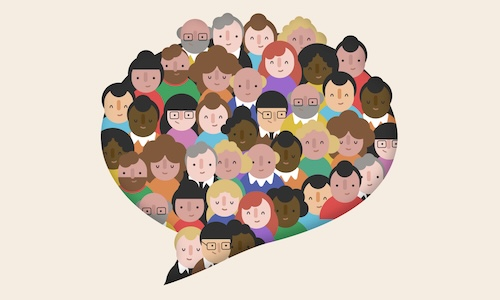
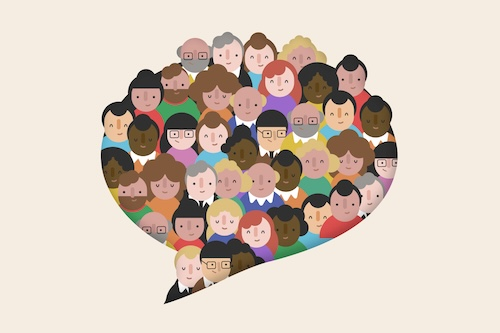
imagenes para destacados

Changed region(s): [[0.18, 0.03, 0.81, 0.96], [0.3, 0.54, 0.36, 0.57]]

diff --git a/index.html b/index.html
@@ -102,11 +102,11 @@
 
         <div class="col-sm-6 col-md-4 col-lg-4">
           <div class="portfolio-item">
-            <div class="hover-bg"> <a href="https://journals.aps.org/pre/abstract/10.1103/PhysRevE.110.044106" title="Photo by Daria Shevtsova on Unsplash" data-lightbox-gallery="gallery1">
+            <div class="hover-bg"> <a href="https://journals.aps.org/pre/abstract/10.1103/PhysRevE.110.044106" title="Papeles de negocios de bodegones con varios peones, image by freepik" data-lightbox-gallery="gallery1">
               <div class="hover-text">
                 <h4>Herd behavior in public goods games</h4>
               </div>
-              <img src="img/portfolio/pgg.jpg" class="img-responsive" alt="Herd behavior in public goods games"> </a> </div>
+              <img src="img/portfolio/herding.jpg" class="img-responsive" alt="Herd behavior in public goods games"> </a> </div>
           </div>
         </div>  
 
